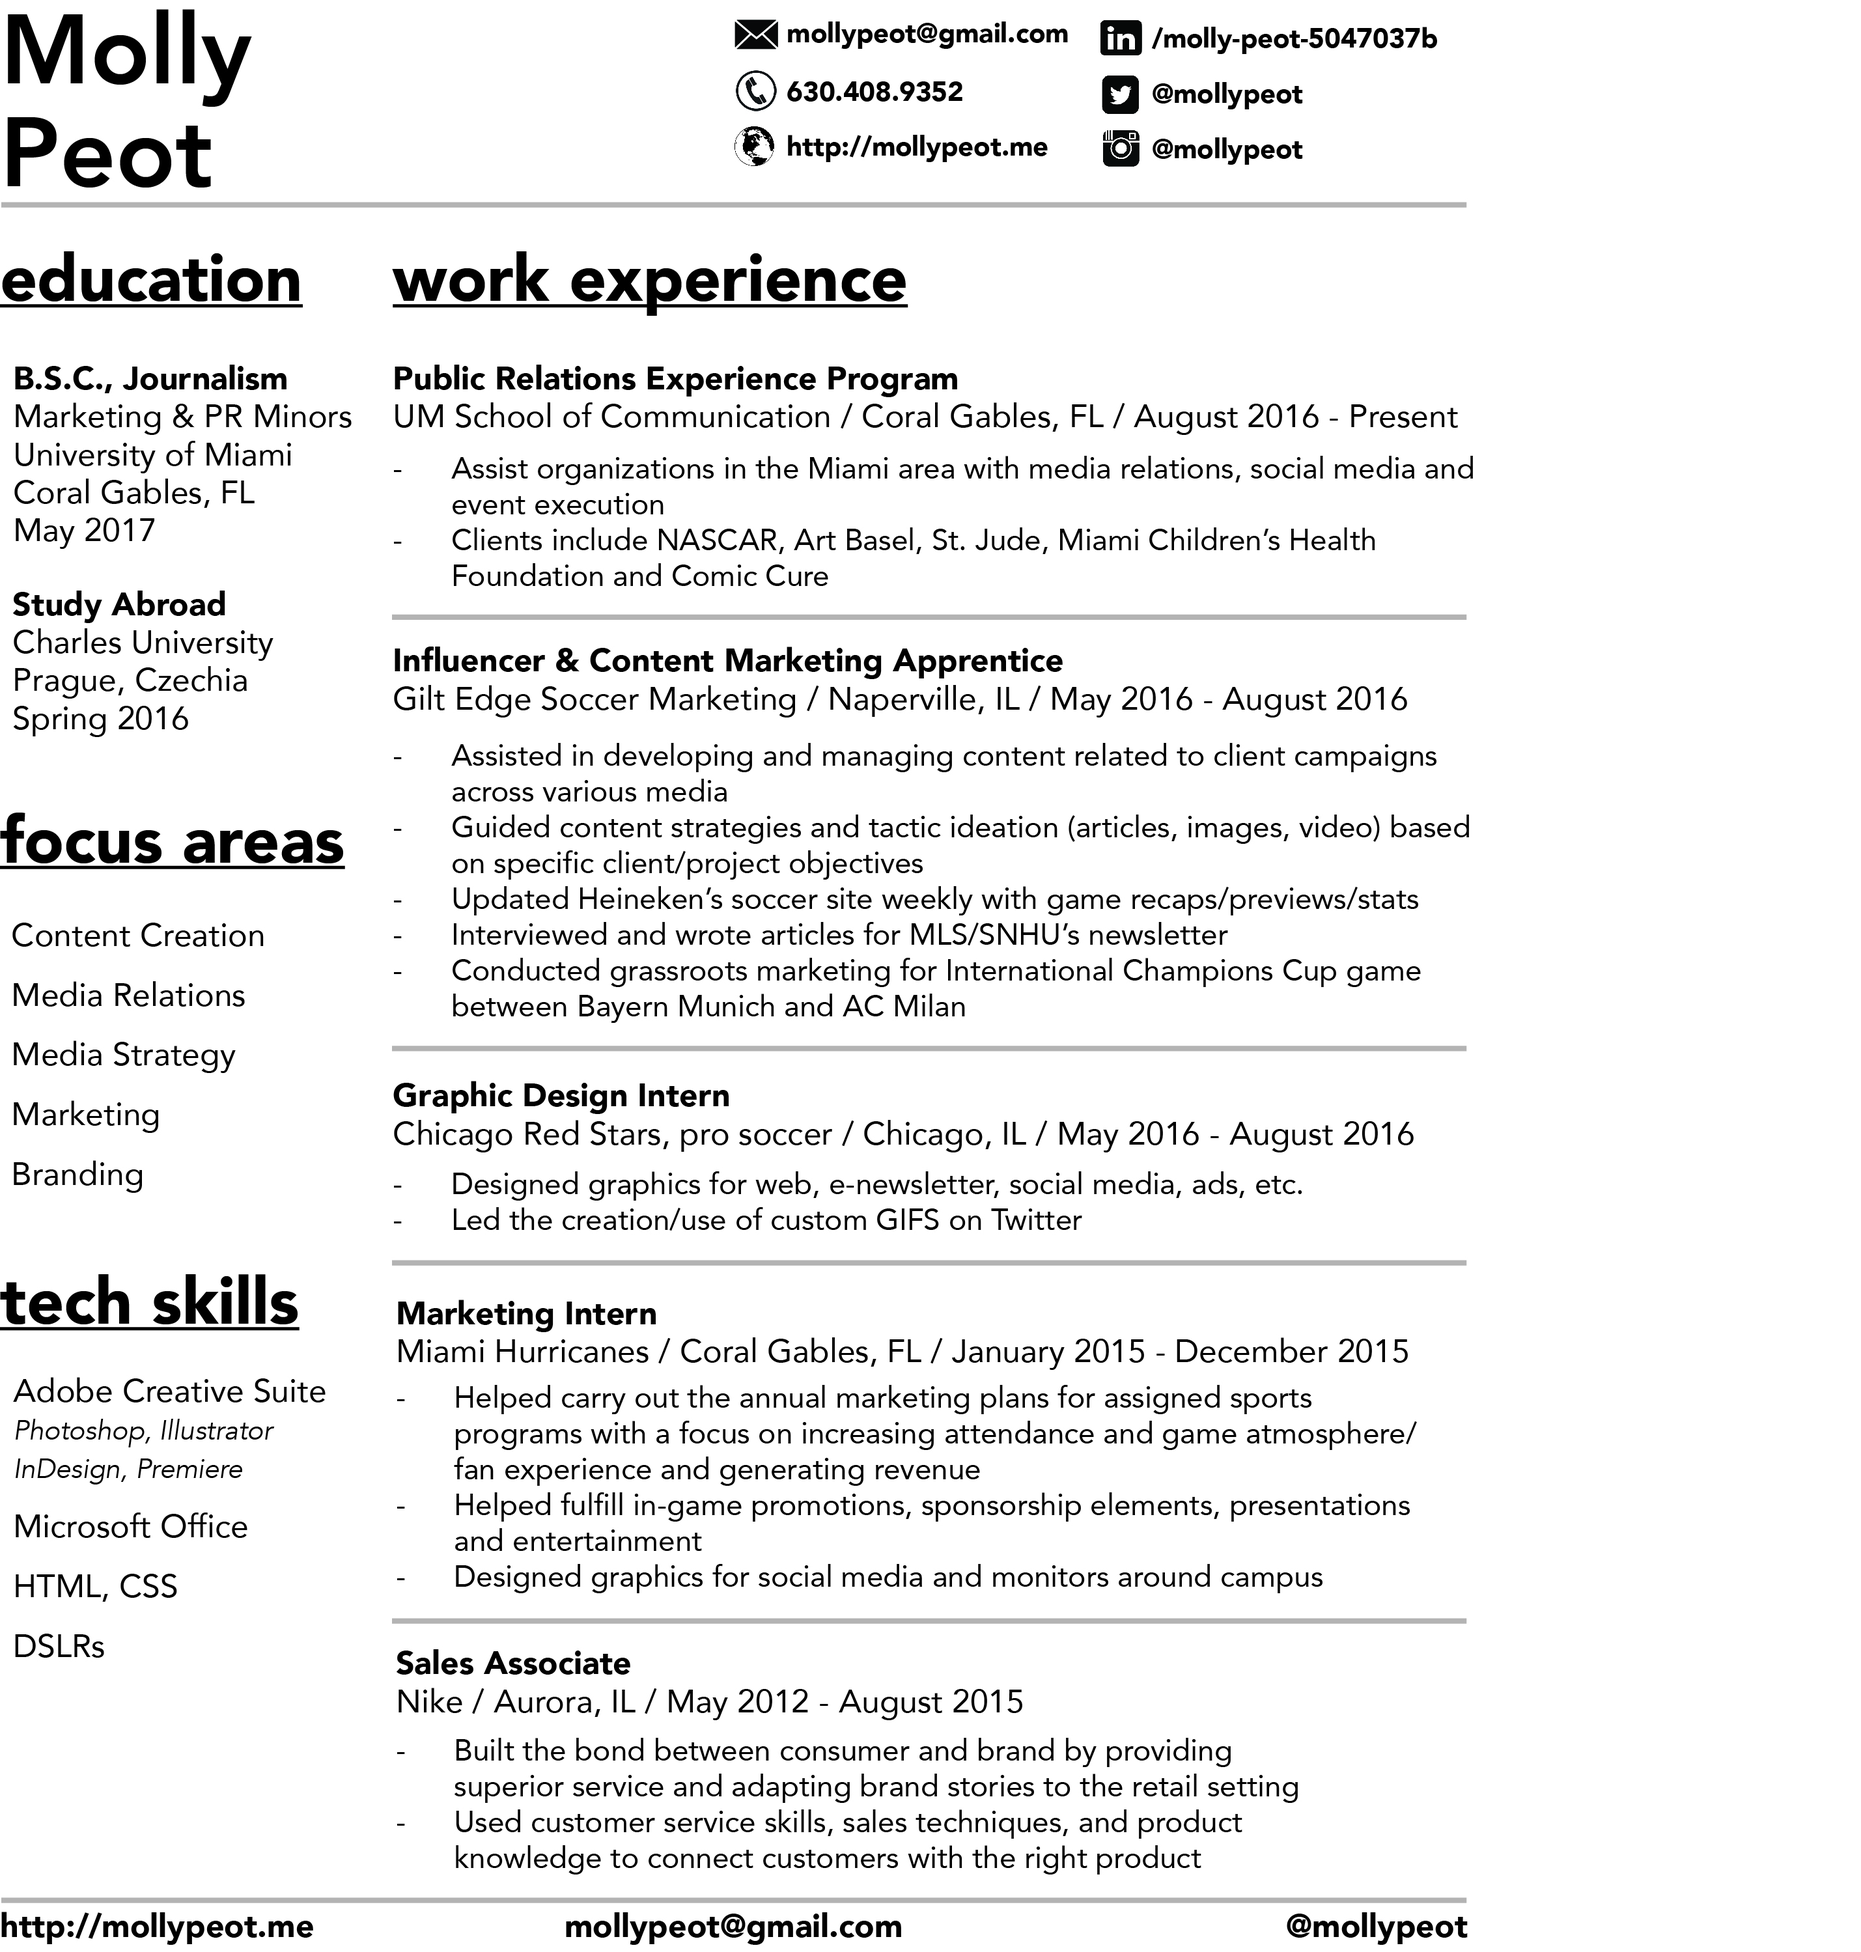
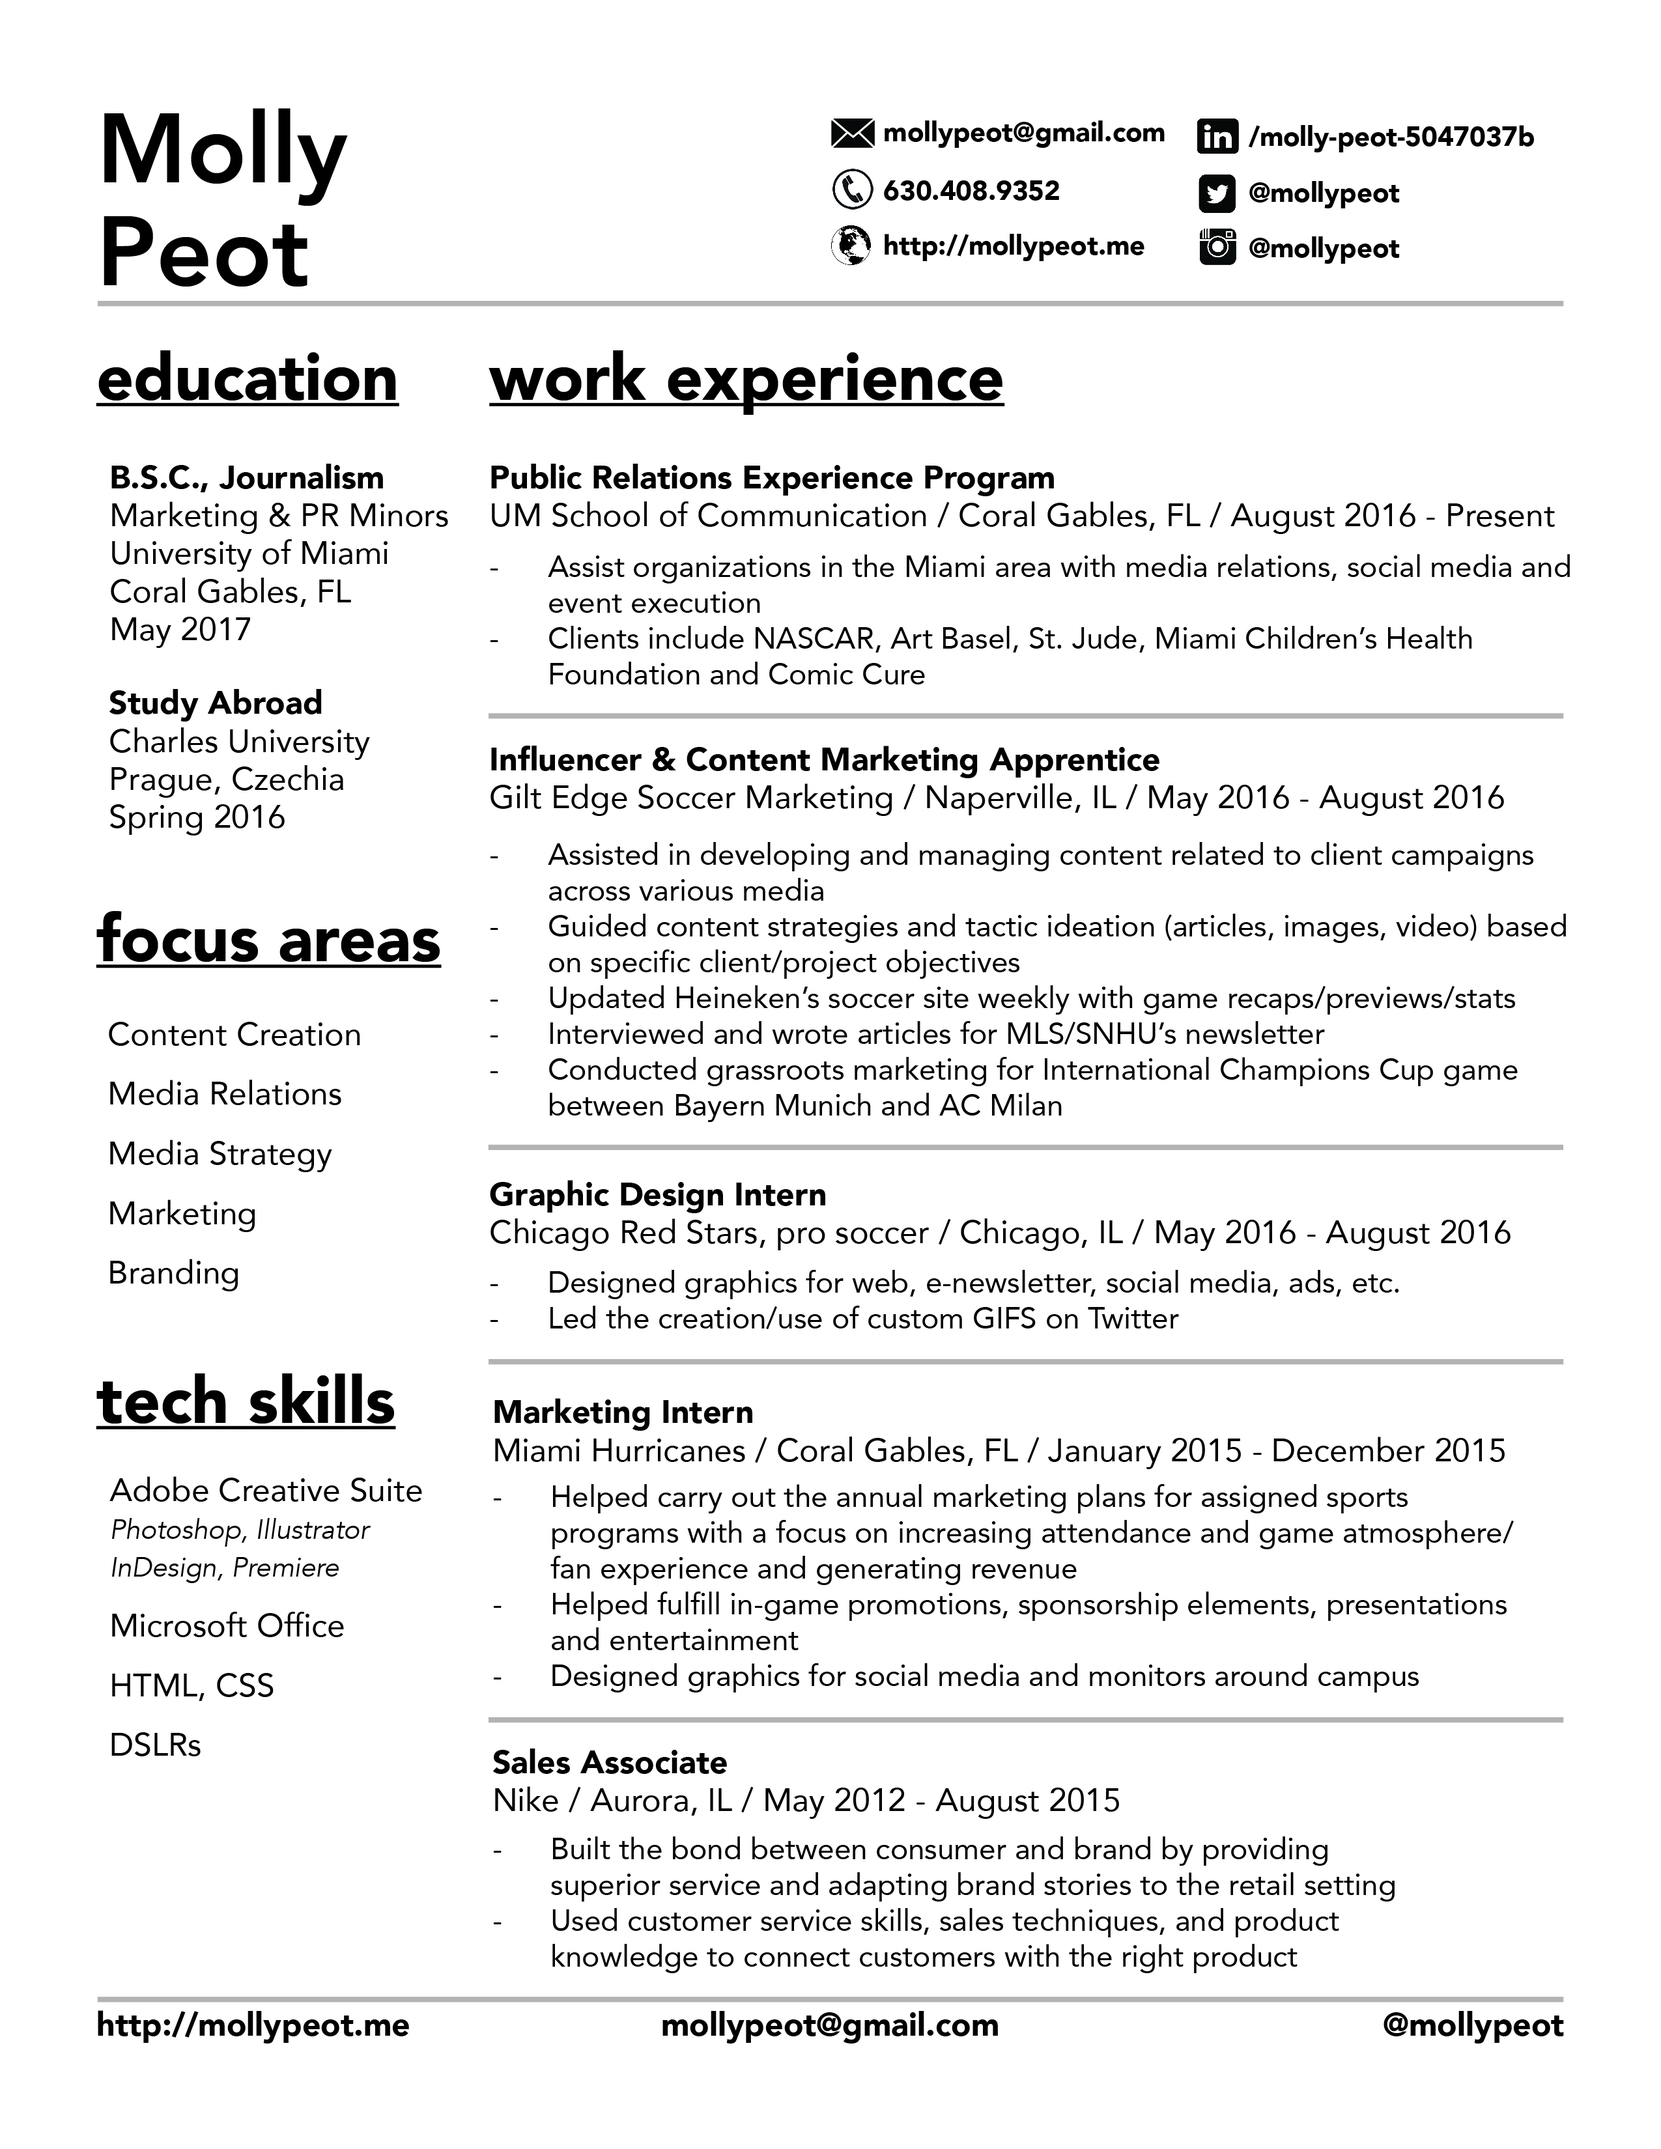
redesign

diff --git a/css/style.css b/css/style.css
@@ -1,113 +1,92 @@
-@import url(https://fonts.googleapis.com/css?family=Ubuntu&subset=latin,greek-ext);
+@import url('https://fonts.googleapis.com/css?family=Dosis|Ranga');
 
 body {
-  font-family: "Ubuntu", sans-serif;
-  font-weight: 400;
+font-family: 'Ranga', cursive;
+font-family: 'Dosis', sans-serif;
+}
+
+#container {
+  width: 75%;
+  margin: auto;
+}
+
+/* header */
+
+header {
+  border-bottom: 1px solid #222;
 }
 
 h1 {
- text-align: center;
- font-size: 2.5em;
+  font-family: 'Ranga';
+  font-size: 60px;
+  text-align: center;
+  margin-bottom: 0px;
 }
 
 h1 a,
-h1 a:visited {
-  color: #222;
-  text-decoration: none;
-}
-
-h1 a:hover {
-  color: #4E5A65;
-}
-
-nav ul li {
-  display: inline;
-  padding: .5em;
-}
-
-nav ul {
-  text-align: center;
-  margin-right: 2.5em;
-  margin-bottom: 2em;
-}
-
+h1 a:visited,
 nav ul li a,
-nav ul li a:visited,
-p a,
-p a:visited {
+nav ul li a:visited {
   color: #222;
   text-decoration: none;
 }
+nav {
+  margin: 0;
+  padding-bottom: .25px;
+  padding-right: 45px;
+  text-align: center;
 
-nav ul li a:hover,
-p a:hover {
-  color: #4E5A65;
 }
 
-/* footer */
-
-footer p {
-  position: fixed;
-  bottom: 0em;
-  right: 0em;
-  font-size: .75em;
+nav li {
+  display: inline;
 }
 
-/* about */
-
-#info {
-  width: 600px;
-  margin: auto;
-  position: relative;
+nav a {
+  display: inline;
+  padding: 2px;
 }
 
-#stuff {
-  width: 225px;
-  margin: auto;
-  position: relative;
+nav ul li a:hover {
+  border-bottom: 1px solid #FF69B4;
 }
 
-#stuff ul {
-  list-style-type: none;
+/* main */
+
+h2 {
+  font-size: 20px;
 }
 
-#resume img {
+/* resume */
+
+img {
+  max-width: 100%;
+  max-height: 100%;
   display: block;
   margin: auto;
-  width: 500px;
-
 }
 
+/* contact */
 
+p a {
+  color: #222;
+  text-decoration: none;
+}
 
-
-
+p a:hover {
+  border-bottom: 1px solid #FF69B4;
+}
 
 /* mobile iPhone 5 */
 
 @media (max-width: 324px) {
 
-  nav ul {
-    text-align: center;
-    margin-right: 1em;
-    margin-bottom: 1em;
+  h1 {
+    font-size: 40px;
   }
 
-  .textContainer {
-    text-align: center;
-    margin-top: 7em;
-  }
-
-  #info {
-    width: 310px;
-    margin: auto;
-    position: relative;
-  }
-
-  #resume img {
-    display: block;
-    margin: auto;
-    width: 310px;
+  nav ul li a {
+    font-size: 12px;
   }
 
 }

diff --git a/index.html b/index.html
@@ -12,6 +12,8 @@
 
   <body>
 
+<div id="container">
+
     <header>
 
       <h1><a href="index.html">MOLLY PEOT</a></h1>
@@ -19,8 +21,8 @@
       <nav>
         <ul>
           <li><a href="index.html">ABOUT</a></li>
-          <li><a href="contact.html">CONTACT</a></li>
           <li><a href="resume.html">RESUME</a></li>
+          <li><a href="contact.html">CONTACT</a></li>
         </ul>
       </nav>
 
@@ -28,13 +30,25 @@
 
     <main>
 
-      <div id="info">
 
-      <p>Molly Peot is a student looking for an adventure in marketing.</p>
-      <p>She graduates this May 2017 from the University of Miami (FL).</p>
-      
+      <p>Mic check one, two...</p>
 
-      </div>
+        <h2>About me</h2>
+
+          <p>From the suburbs of Chicago, Ill.</p>
+          <p>Now a senior at the University of Miami (FL) studying journalism, marketing and public relations. </p>
+          <p>Searching for a gig allowing me to combine my studies with my passions for sports and entertainment.</p>
+
+        <h2>Love</h2>
+
+        <p>Photography</p>
+        <p>Traveling</p>
+        <p>Streetwear</p>
+        <p>Data</p>
+        <p>Cheering obnoxiously for my favorite sport teams</p>
+        <p>Time with my family</p>
+        <p>Social media</p>
+        <P>Coding</p>
 
     </main>
 
@@ -42,9 +56,11 @@
 
     <footer>
 
-    <p>COPYRIGHT &#169; 2016 PEOT - ALL RIGHTS RESERVED.</p>
+
 
     </footer>
+
+</div>
 
   </body>
 

diff --git a/contact.html b/contact.html
@@ -12,6 +12,8 @@
 
   <body>
 
+<div id="container">
+
     <header>
 
       <h1><a href="index.html">MOLLY PEOT</a></h1>
@@ -19,8 +21,8 @@
       <nav>
         <ul>
           <li><a href="index.html">ABOUT</a></li>
-          <li><a href="contact.html">CONTACT</a></li>
           <li><a href="resume.html">RESUME</a></li>
+          <li><a href="contact.html">CONTACT</a></li>
         </ul>
       </nav>
 
@@ -30,16 +32,19 @@
 
 
 
-      <div id="stuff">
 
-      <p>CONTACT</p>
+
+      <h2>Email</h2>
 
       <p>mollypeot (at) gmail (dot) com</p>
+
+      <h2>Social</h2>
+
       <p><a href="http://www.twitter.com/mollypeot">twitter - @mollypeot</a></p>
       <p><a href="http://www.instagram.com/mollypeot">instagram - @mollypeot</a></p>
       <p><a href="https://www.linkedin.com/in/molly-peot-5047037b">linkedin</a></p>
 
-      </div>
+
 
     </main>
 
@@ -47,9 +52,11 @@
 
     <footer>
 
-    <p>COPYRIGHT &#169; 2016 PEOT - ALL RIGHTS RESERVED.</p>
+
 
     </footer>
+
+<div id="container">
 
   </body>
 

diff --git a/resume.html b/resume.html
@@ -12,6 +12,8 @@
 
   <body>
 
+<div id="container">
+
     <header>
 
       <h1><a href="index.html">MOLLY PEOT</a></h1>
@@ -19,8 +21,8 @@
       <nav>
         <ul>
           <li><a href="index.html">ABOUT</a></li>
-          <li><a href="contact.html">CONTACT</a></li>
           <li><a href="resume.html">RESUME</a></li>
+          <li><a href="contact.html">CONTACT</a></li>
         </ul>
       </nav>
 
@@ -28,11 +30,12 @@
 
     <main>
 
-      <div id="resume">
 
-      <img src="img/molly-peot-resume.jpg">
 
-      </div>
+
+      <img id="resume" src="img/molly-peot-resume.jpg">
+
+
 
     </main>
 
@@ -40,10 +43,14 @@
 
     <footer>
 
-    <p>COPYRIGHT &#169; 2016 PEOT - ALL RIGHTS RESERVED.</p>
+
 
     </footer>
 
+</div>
+
   </body>
+
+
 
 </html>
